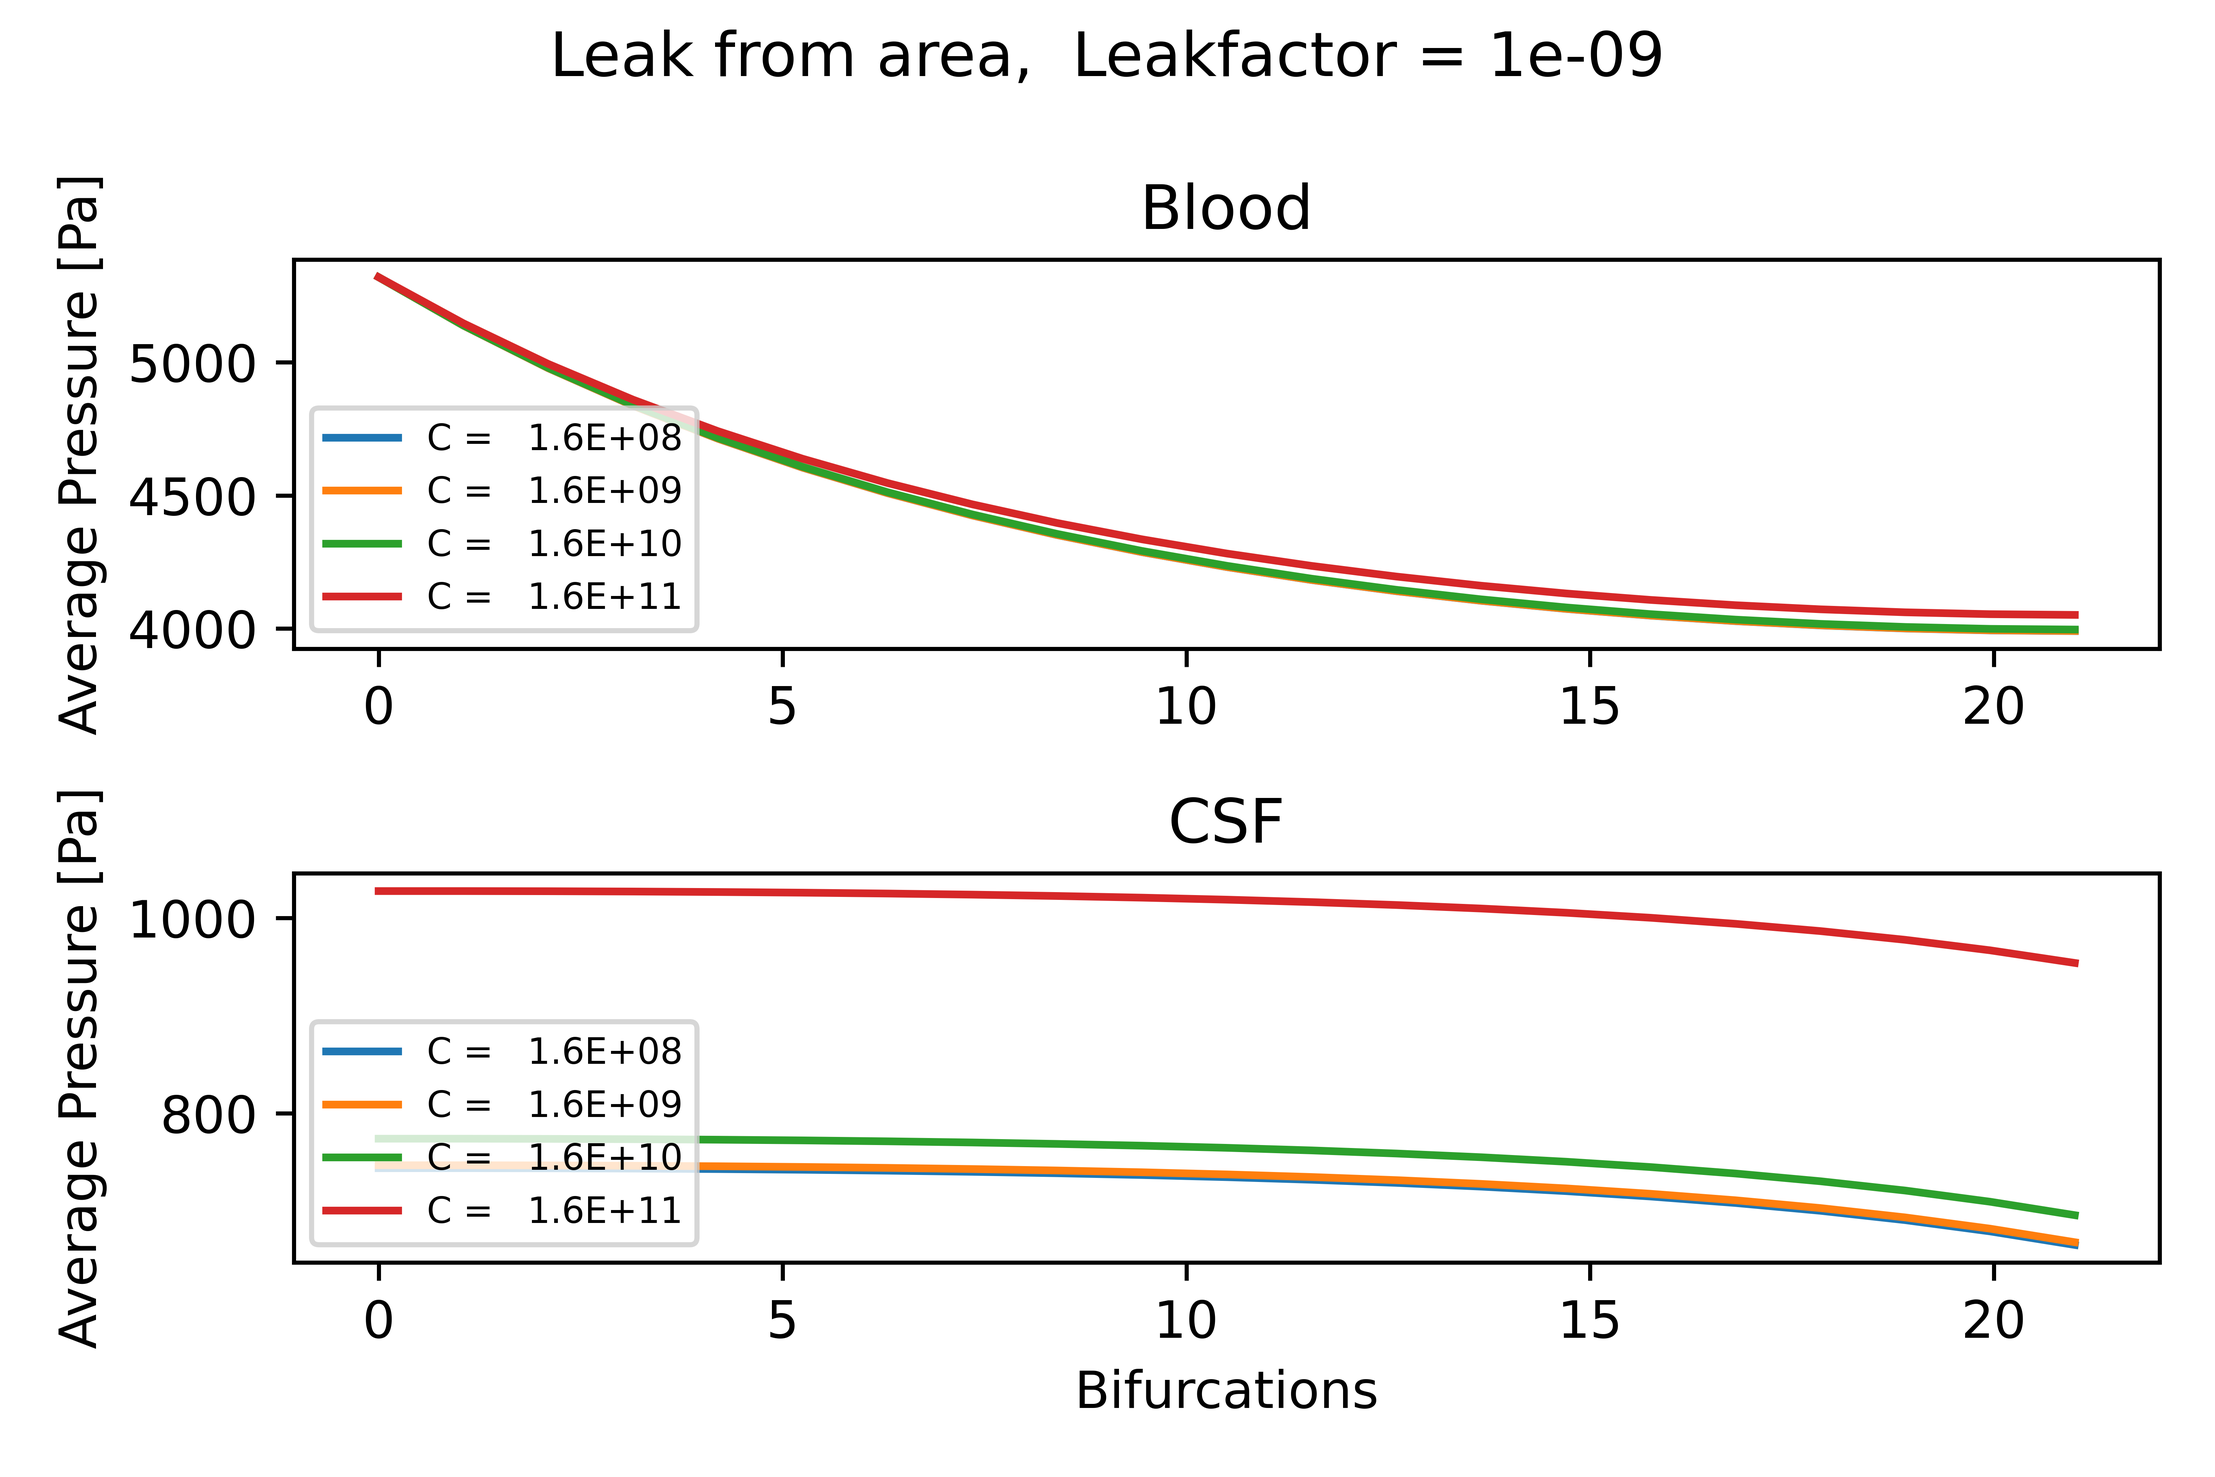
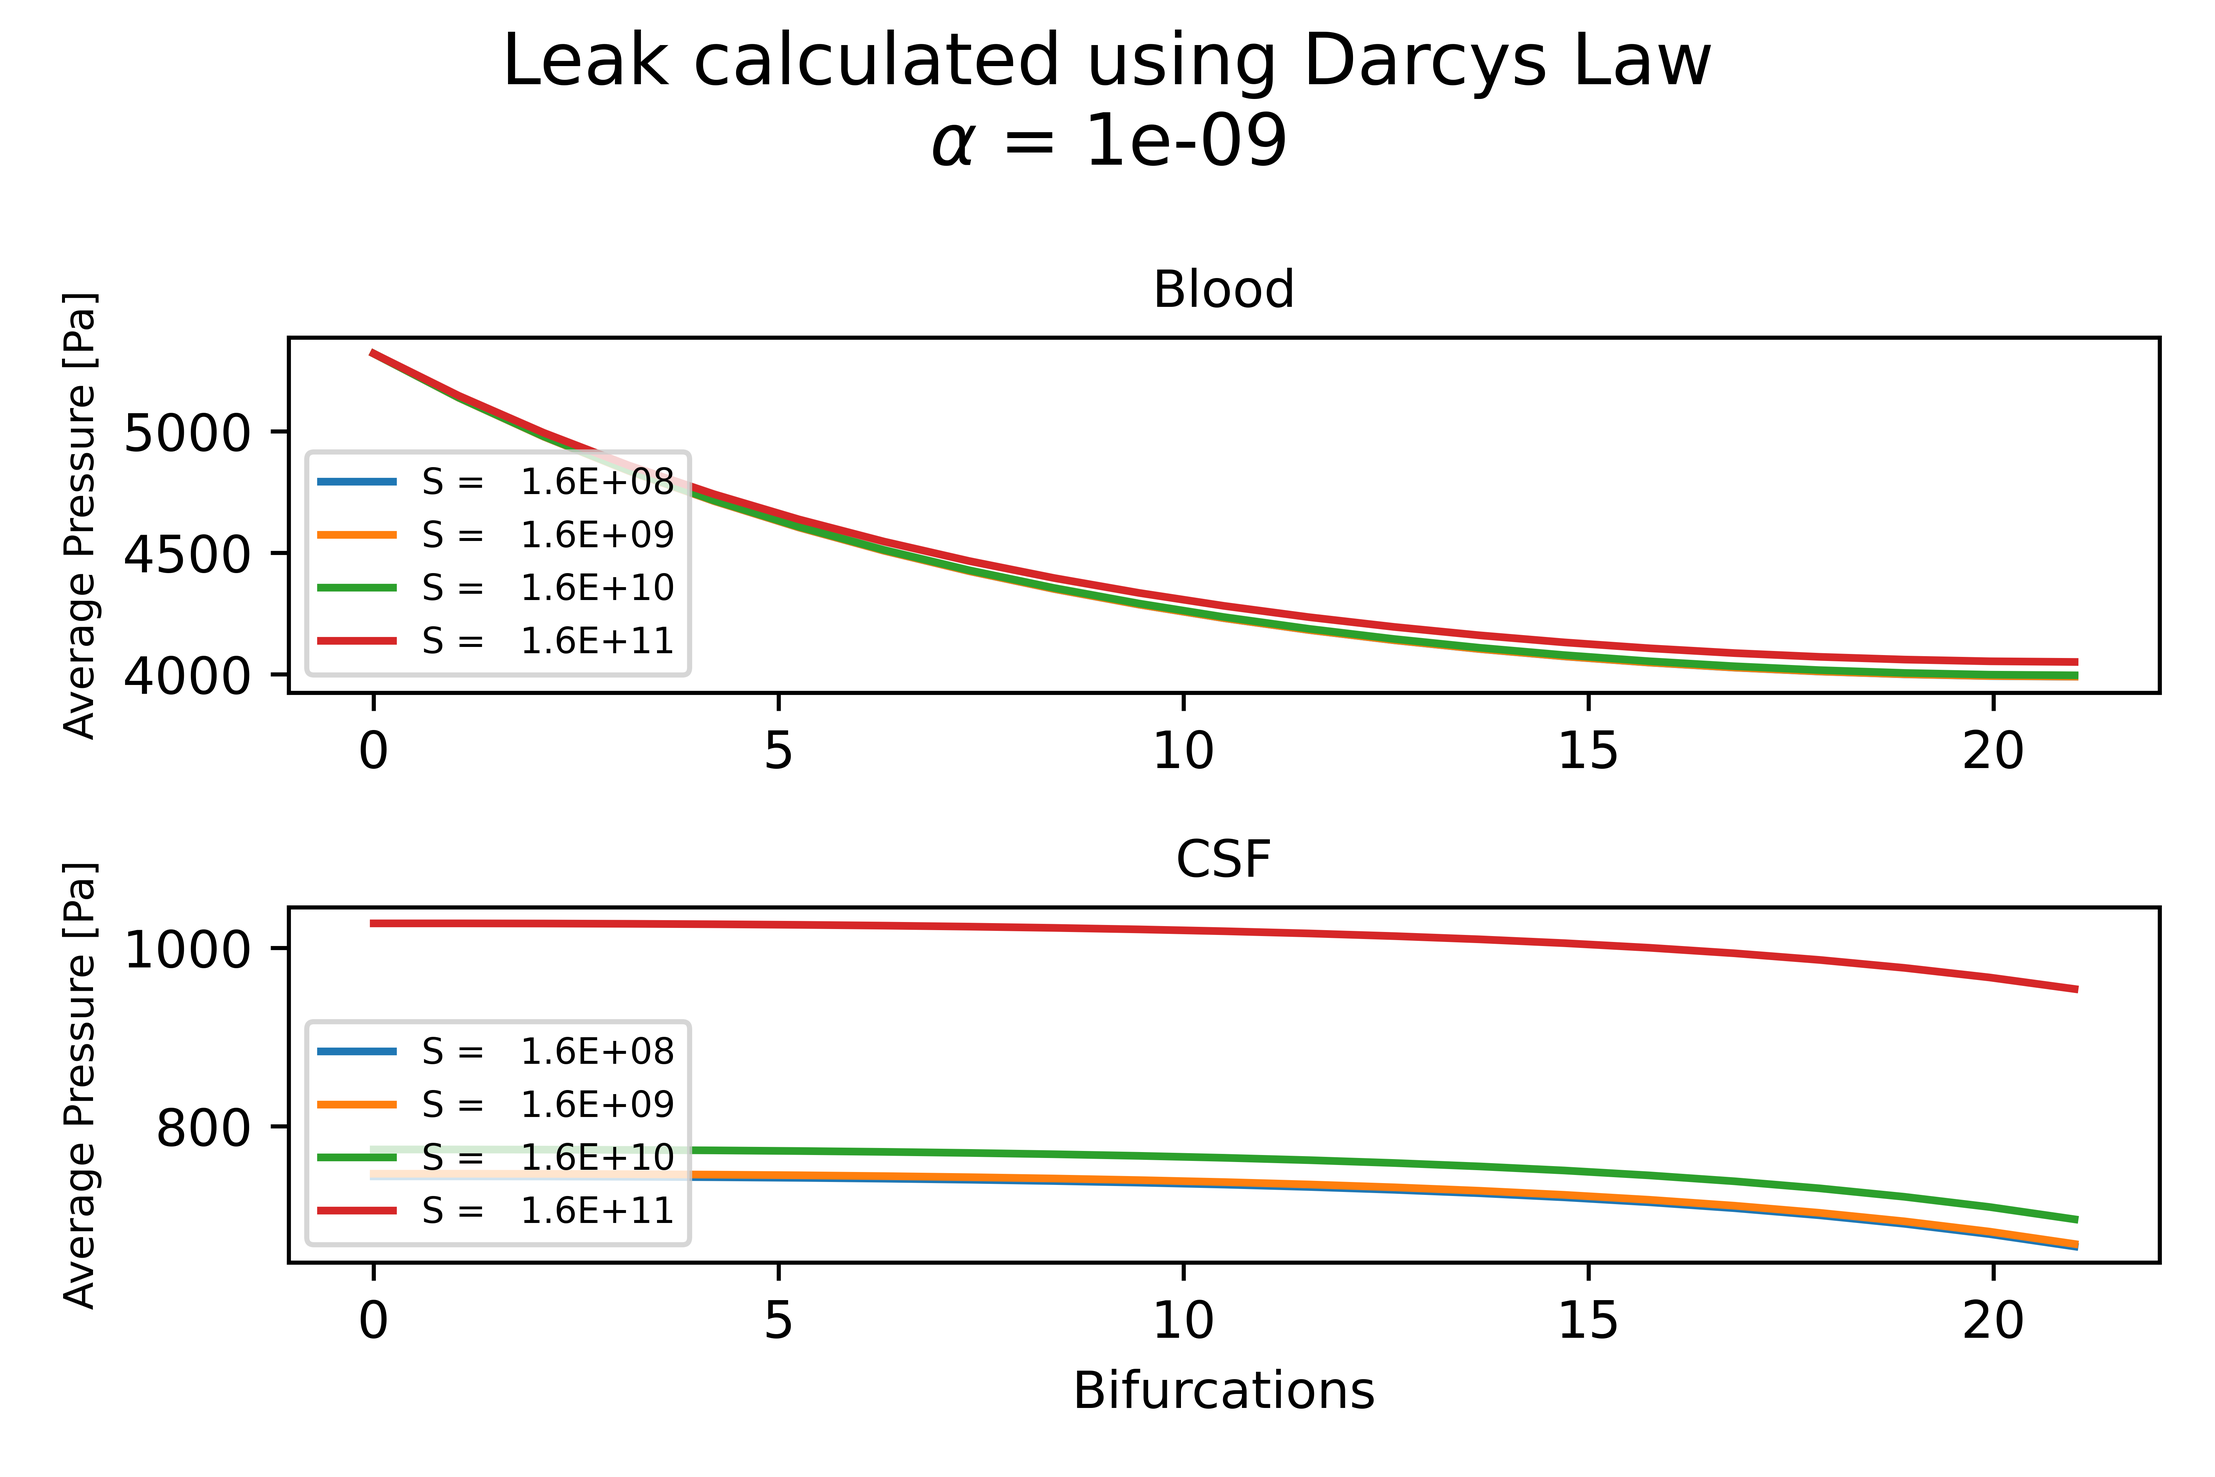
ferdig

diff --git a/Project_2/bloodnoiterations.py b/Project_2/bloodnoiterations.py
@@ -19,29 +19,33 @@ from scipy.sparse.linalg import spsolve
 
 "INPUTS"
 
-outflow_iterations = 3
+outflow_iterations = 4 #number of differend outflowfactors to plot
 
 for s in range (1, outflow_iterations+1):
-    leakfromarea = "True" #choose whether to calculate leak from area of cell or from the resistance of the cell
+    leakfromarea = "True" #choose whether to calculate leak from area of cell or 
+    #from the resistance of the cell
     
     if leakfromarea == "True":
-        leak_per_area_factor = 10**-13
+        leak_per_area_factor = 10**-11
         
     else:
-        leak_resistance = 1/300  #1/Resisistance, so higher number means more leaking
+        leak_resistance = 1/500   #1/Resisistance, so higher number means more leaking
     
     
-    viscosity = 10**-3   
-    factoroutflow = (10**s)*2*133*60 *10**1 #Needed on the boundary as P_out = factoroutflow*Q + P_end
+    viscosity = 10**-3
+    factoroutflow = (10**s)*2*133*60 *10**1 #the first outflowfactor to plot
     lengthfactor = 100 #"cell length = diameter*lengthfactor"
     shrinkfactor = (1/2)**(1/3.67)   #how much the diameter shrinks each split
     
-    D = 0.03 /shrinkfactor #means that the first radius is 3, it gets multiplied by shrinkfactor later
-    levels = 21#))the amount of times the cells split
+    D = 0.03 /shrinkfactor #means that the first radius is 3, it gets multiplied 
+    #by shrinkfactor later
+    levels = 15#))the amount of times the cells split
     
     startpressure = 40*133  #pressure in the first point in blood
-    endpressure = 30*133   #The pressure at the end, not including the boundary condition from flux. 1 Pa = 133 mmHg
-    csfpressure = 5*133  # the pressure at csf boundaries, not including flux boundary condition
+    endpressure = 30*133   #The pressure at the end, not including the 
+    #boundary condition from flux. 1 Pa = 133 mmHg
+    csfpressure = 5*133  # the pressure at csf boundaries, not including
+    #flux boundary condition
     
     #%%
     save = "False" #saves the mesh to a file
@@ -51,7 +55,8 @@ for s in range (1, outflow_iterations+1):
     
     listofpoints = []   #list all the points
     
-    listofcells = [] #list of cells, each entry is (cellnumber, first point, second point, diameter, length )
+    listofcells = [] 
+    #list of cells, each entry is (cellnumber, first point, second point, diameter, length )
     
     
     
@@ -69,11 +74,14 @@ for s in range (1, outflow_iterations+1):
         
         
         
-        for j in range(0, pointsinlevel): #going through the points in the level from the top down
+        for j in range(0, pointsinlevel): 
+            #going through the points in the level from the top down
             
             
             x = i              
-            y = toppoint - j*2*toppoint/(pointsinlevel-1) # y = y of toppoint at that level - j*(the y-distance between points at that level)
+            y = toppoint - j*2*toppoint/(pointsinlevel-1) 
+            # y = y of toppoint at that level - 
+            #j*(the y-distance between points at that level)
             point = [x, y] 
             
             
@@ -88,18 +96,21 @@ for s in range (1, outflow_iterations+1):
             
     for i in range (1, levels):
         
-        D = D * shrinkfactor   #setting the diameter as the last diameter times the shrinkingfactor
+        D = D * shrinkfactor   
+        #setting the diameter as the last diameter times the shrinkingfactor
             
         tubesinlevel = 2**i
-        pointsalreadytaken = 0 #need this mark how many points I have gone through in a level
-        for j in range(0, int(tubesinlevel/2)):    #because there is half as many startingpoints as endpoints
+        pointsalreadytaken = 0
+        #need this mark how many points I have gone through in a level
+        for j in range(0, int(tubesinlevel/2)):    
+            #because there is half as many startingpoints as endpoints
             
-            firstpoint = int(tubesinlevel/2) + j -1 #i dont use this
+            firstpoint = int(tubesinlevel/2) + j -1 
             
             for k in range(0, 2): #for the two last poinst after a split
                 
                 secondpoint = tubesinlevel + k + pointsalreadytaken*2 - 1
-                cell = [cellnumber, firstpoint, secondpoint, D, D*lengthfactor]  #last entry is the length
+                cell = [cellnumber, firstpoint, secondpoint, D, D*lengthfactor]  
                 listofcells.append(cell)        
                 cellnumber += 1
             
@@ -128,10 +139,6 @@ for s in range (1, outflow_iterations+1):
     
     
     
-    # print("list of cells (cellnumber, two points it touches, diameteter, length):", listofcells)
-    
-    # print()
-    # print("list of points: ", listofpoints)
     
     
     
@@ -153,17 +160,20 @@ for s in range (1, outflow_iterations+1):
     
     #solver
     
-    Np = int(len(listofpoints))
+    Np = int(len(listofpoints)) #number of points in blood
     
     # flux = [] #dont need this really
     print(f"creating matrices, number of points = {Np}")
     A = lil_matrix((Np, Np)) #the coefficient matrix for just the blooddomain
     A_CSF = lil_matrix((Np, Np)) #for CSF
-    B = np.zeros(Np*2)  #The B in Ax = B, is for both blood and CSF so has to be twice as long
+    B = np.zeros(Np*2)  
+    #The B in Ax = B, is for both blood and CSF so has to be twice as long
     A_topright = lil_matrix((Np, Np))
     
     A_downleft = lil_matrix((Np, Np))
-    c = [] #this is all the coefficients needed, on the form pi*r**4/(8*l*viscosity) so Q=c*(P[0]-P[1])
+    c = [] 
+    #this is all the coefficients needed, on the form 
+    #pi*r**4/(8*l*viscosity) so Q=c*(P[0]-P[1])
     
     for i in range(0, Np-1):
         c_value = np.pi*((listofcells[i][3])/2)**4/(8*listofcells[i][4]*viscosity)
@@ -171,10 +181,10 @@ for s in range (1, outflow_iterations+1):
         
     c = c+c  #this copies the array and adds it, so it can be used on the csf system as well    
     
-    #Setting up the A matrix from the eq p2-p1 = -8*flux*viscosity*length/(pi*r**4)
+    #Setting up the A matrix for inner points
     for i in range(1, int((Np-1)/2)): #all points exept firstpoint and last level
         # A[i, i] = 1
-        if i % 2 == 0: #different for odd and even numbers, as the splitting affects the numbering
+        if i % 2 == 0: #different for odd and even numbers
             lastpoint = int(i/2-1)
             nextpoint1 = int(i*2+1)
             nextpoint2 =  nextpoint1 + 1
@@ -182,9 +192,11 @@ for s in range (1, outflow_iterations+1):
             A[i, nextpoint1] = c[nextpoint1-1] #dependence on first splitpoint
             A[i, nextpoint2] = c[nextpoint2-1] #dependence on  second splitpoint
             if leakfromarea == "True":
-                A[i, i] = -c[nextpoint1 -1] - c[nextpoint2-1] - c[i-1] - np.pi*listofcells[i-1][3]*listofcells[i-1][4]*leak_per_area_factor
+                A[i, i] = (-c[nextpoint1 -1] - c[nextpoint2-1] - c[i-1] - 
+                np.pi*listofcells[i-1][3]*listofcells[i-1][4]*leak_per_area_factor)
             else:
-                A[i, i] = -c[nextpoint1 -1] - c[nextpoint2-1] - c[i-1] - c[i-1]*leak_resistance #dependence on it self, including the leak to csf
+                A[i, i] = (-c[nextpoint1 -1] - c[nextpoint2-1] 
+                           - c[i-1] - c[i-1]*leak_resistance)
         else:
             
             
@@ -197,15 +209,18 @@ for s in range (1, outflow_iterations+1):
             A[i, nextpoint1] = c[nextpoint1-1]
             A[i, nextpoint2] = c[nextpoint2-1]
             if leakfromarea == "True":
-                A[i, i] = -c[nextpoint1 -1] - c[nextpoint2-1]  - c[i-1] -  np.pi*listofcells[i-1][3]*listofcells[i-1][4]*leak_per_area_factor
+                A[i, i] = (-c[nextpoint1 -1] - c[nextpoint2-1]  - c[i-1] -  
+                           np.pi*listofcells[i-1][3]*listofcells[i-1][4]*leak_per_area_factor)
             else:
-                A[i, i] = -c[nextpoint1 -1] - c[nextpoint2-1]  - c[i-1] - c[i-1]*leak_resistance
+                A[i, i] = (-c[nextpoint1 -1] - c[nextpoint2-1]  -
+                           c[i-1] - c[i-1]*leak_resistance)
             if i % 10000 == 0:
                 print(f"creating A_blood, row {i} of {Np} points")
     for i in range(int((Np-1)/2), Np): #the coefficiants on the boundary eqs
         
         if leakfromarea == "True":
-            A[i, i] = 1 + factoroutflow*c[i-1] +  np.pi*listofcells[i-1][3]*listofcells[i-1][4]*leak_per_area_factor
+            A[i, i] = (1 + factoroutflow*c[i-1] + 
+                       np.pi*listofcells[i-1][3]*listofcells[i-1][4]*leak_per_area_factor)
         else:
             A[i, i] = 1 + factoroutflow*c[i-1] + leak_resistance*c[i-1]
         if i % 2 == 0: #different for odd and even numbers, as the splitting affects the numbering
@@ -227,9 +242,7 @@ for s in range (1, outflow_iterations+1):
     print("Assembling A_final")
     A_CSF = lil_matrix.copy(A)  #the matrix for CSF, lower left corner of total matrix
     
-    # for i in range(int((Np-1)/2), Np): #says that for the boundary in csf, the pressure = the entry in B
         
-    #     A_CSF[i, i] = 1 + factoroutflow*c[i-1]
     "#for the first point in csf:"
     A_CSF[0, 0] = 1+factoroutflow*c[0]+factoroutflow*c[1]
     
@@ -239,56 +252,59 @@ for s in range (1, outflow_iterations+1):
     
     for i in range(1, int((Np-1)/2)):
         
-        # A_topright[i, i] = k*np.pi*D*L/(viscosity*L_radial) #darcy's law, this is more accurate, but we lack information on thickness of cellwall and k (permability)
         
-        if leakfromarea == "True":
-            A_topright[i, i] = np.pi*listofcells[i-1][3]*listofcells[i-1][4]*leak_per_area_factor  #says that the leak resistance is the c of last cell, times some factor
+        if leakfromarea == "True": #says leaking is area times the factor times delta P
+            A_topright[i, i] = (np.pi*listofcells[i-1][3]*
+                                listofcells[i-1][4]*leak_per_area_factor)  
             
-            A_downleft[i, i] =   np.pi*listofcells[i-1][3]*listofcells[i-1][4]*leak_per_area_factor
+            A_downleft[i, i] =   (np.pi*listofcells[i-1][3]*listofcells[i-1][4]*
+                                  leak_per_area_factor)
         
         else:
-            A_topright[i, i] =  c[i-1]*leak_resistance  #says that the leak resistance is the c of last cell, times some factor
+            A_topright[i, i] =  c[i-1]*leak_resistance  
             
             A_downleft[i, i] =  c[i-1]*leak_resistance
     "for boundary in blood and csf"
     for i in range(int((Np-1)/2), Np):
         
-        # A_topright[i, i] = k*np.pi*D*L/(viscosity*L_radial) #darcy's law, this is more accurate, but we lack information on thickness of cellwall and k (permability)
         if leakfromarea == "True":
-            A_topright[i, i] = -np.pi*listofcells[i-1][3]*listofcells[i-1][4]*leak_per_area_factor  #says that the leak resistance is the c of last cell, times some factor
+            A_topright[i, i] = (-np.pi*listofcells[i-1][3]*
+                                listofcells[i-1][4]*leak_per_area_factor)  
             
-            A_downleft[i, i] =   -np.pi*listofcells[i-1][3]*listofcells[i-1][4]*leak_per_area_factor
+            A_downleft[i, i] =   (-np.pi*listofcells[i-1][3]*
+                                  listofcells[i-1][4]*leak_per_area_factor)
         
         else:
-            A_topright[i, i] =  -c[i-1]*leak_resistance  #says that the leak resistance is the c of last cell, times some factor
+            A_topright[i, i] =  -c[i-1]*leak_resistance  
             
             A_downleft[i, i] =  -c[i-1]*leak_resistance
     
     
     
     
-    # A_final = np.bmat('A, A_topright; A_downleft, A_CSF') #combining the matrixes to a final A-matrix
     topp_part = hstack([A, A_topright])
     bottom_part = hstack([A_downleft, A_CSF])
     
     
     
-    A_final = vstack([topp_part, bottom_part], format="csc") #') #combining the matrixes to a final A-matrix
+    A_final = vstack([topp_part, bottom_part], format="csc") 
        
         
     B[0] = startpressure
     
     
     print("Assembling B-array")
-    for i in range(Np+int((Np-1)/2),   int(Np*2)): #this is for csf
+    for i in range(Np+int((Np-1)/2),   int(Np*2)): #this is for boundary in csf
         
         B[i] = csfpressure
-    #this is for csf's first point, where flux is the sum of the split
-    B[Np] = csfpressure
+        
+    B[Np] = csfpressure        #this is for csf's first point,
+    #where flux is the sum of the split
+
+
     
     
-    
-    for i in range(int((Np-1)/2), Np):
+    for i in range(int((Np-1)/2), Np): #the boundary points in blood
         B[i] = endpressure
     
     
@@ -306,7 +322,7 @@ for s in range (1, outflow_iterations+1):
     avg_pressure_blood[0] = pressure[0]
     avg_pressure_CSF[0] = pressure[Np]
     
-    for i in range(1, levels):
+    for i in range(1, levels): #finding the avg pressure at each level
         pointsinlevel = 2**i
         
         avg_pressure_blood[i] = np.average(pressure[pointsinlevel-1:2*pointsinlevel-2])
@@ -318,23 +334,25 @@ for s in range (1, outflow_iterations+1):
 
     plt.subplot(2, 1, 1)
     x = np.linspace(0, levels, levels)
-    plt.plot( x, avg_pressure_blood,  label=f"C ={format(factoroutflow, '10.1E')}")
+    plt.plot( x, avg_pressure_blood,  label=f"S ={format(factoroutflow, '10.1E')}")
     legend = plt.legend(loc="lower left", prop={"size": 7})
-    plt.ylabel("Average Pressure [Pa]")
-    plt.title("Blood")
+    plt.ylabel("Average Pressure [Pa]", fontsize = 8)
+    plt.title("Blood", fontsize=10)
     
     plt.subplot(2, 1, 2)
-    plt.plot(x, avg_pressure_CSF,   label=f"C ={format(factoroutflow, '10.1E')}")
-    plt.title("CSF")
-    plt.ylabel("Average Pressure [Pa]")
+    plt.plot(x, avg_pressure_CSF,   label=f"S ={format(factoroutflow, '10.1E')}")
+    plt.title("CSF", fontsize=10)
+    plt.ylabel("Average Pressure [Pa]", fontsize = 8)
     plt.xlabel("Bifurcations")
 
     legend = plt.legend(loc="lower left", prop={"size": 7})
     if leakfromarea == "True":
-        plt.suptitle(f"Leak from area,  Leakfactor = {leak_per_area_factor}")
+        plt.suptitle(r"Leak calculated using Darcys Law""\n" 
+                     r"$\alpha$ = {}".format(leak_per_area_factor), fontsize=14)
+        
     else:
-        plt.suptitle(f"Leak from resistance, factor = {1/leak_resistance}")
-    print()
+        plt.suptitle(r"Leak proportional to resistance in cell""\n" 
+                     r"$R_f$ = {}".format(1/leak_resistance), fontsize=14)    
     print()
     print("INPUTS:")
     print(f"Leak from area = {leakfromarea}")
@@ -350,7 +368,7 @@ for s in range (1, outflow_iterations+1):
 plt.tight_layout()
 
 
-plt.savefig("Different_c", dpi=1000)
+plt.savefig("plot", dpi=1000)
 
 
 plt.show()  
